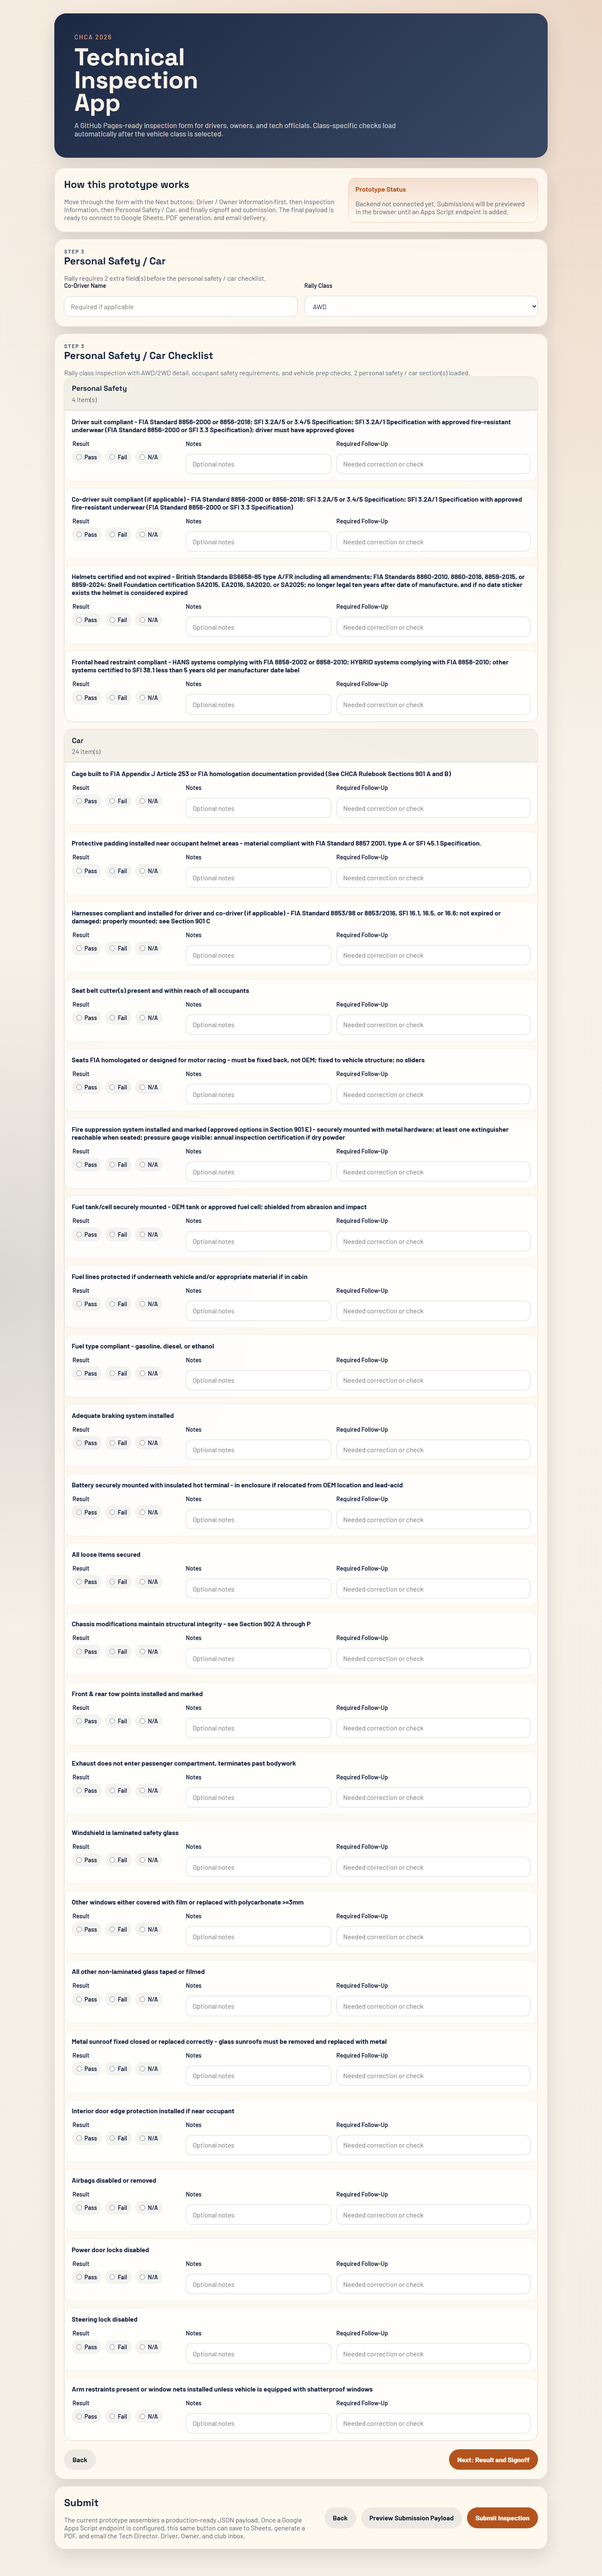
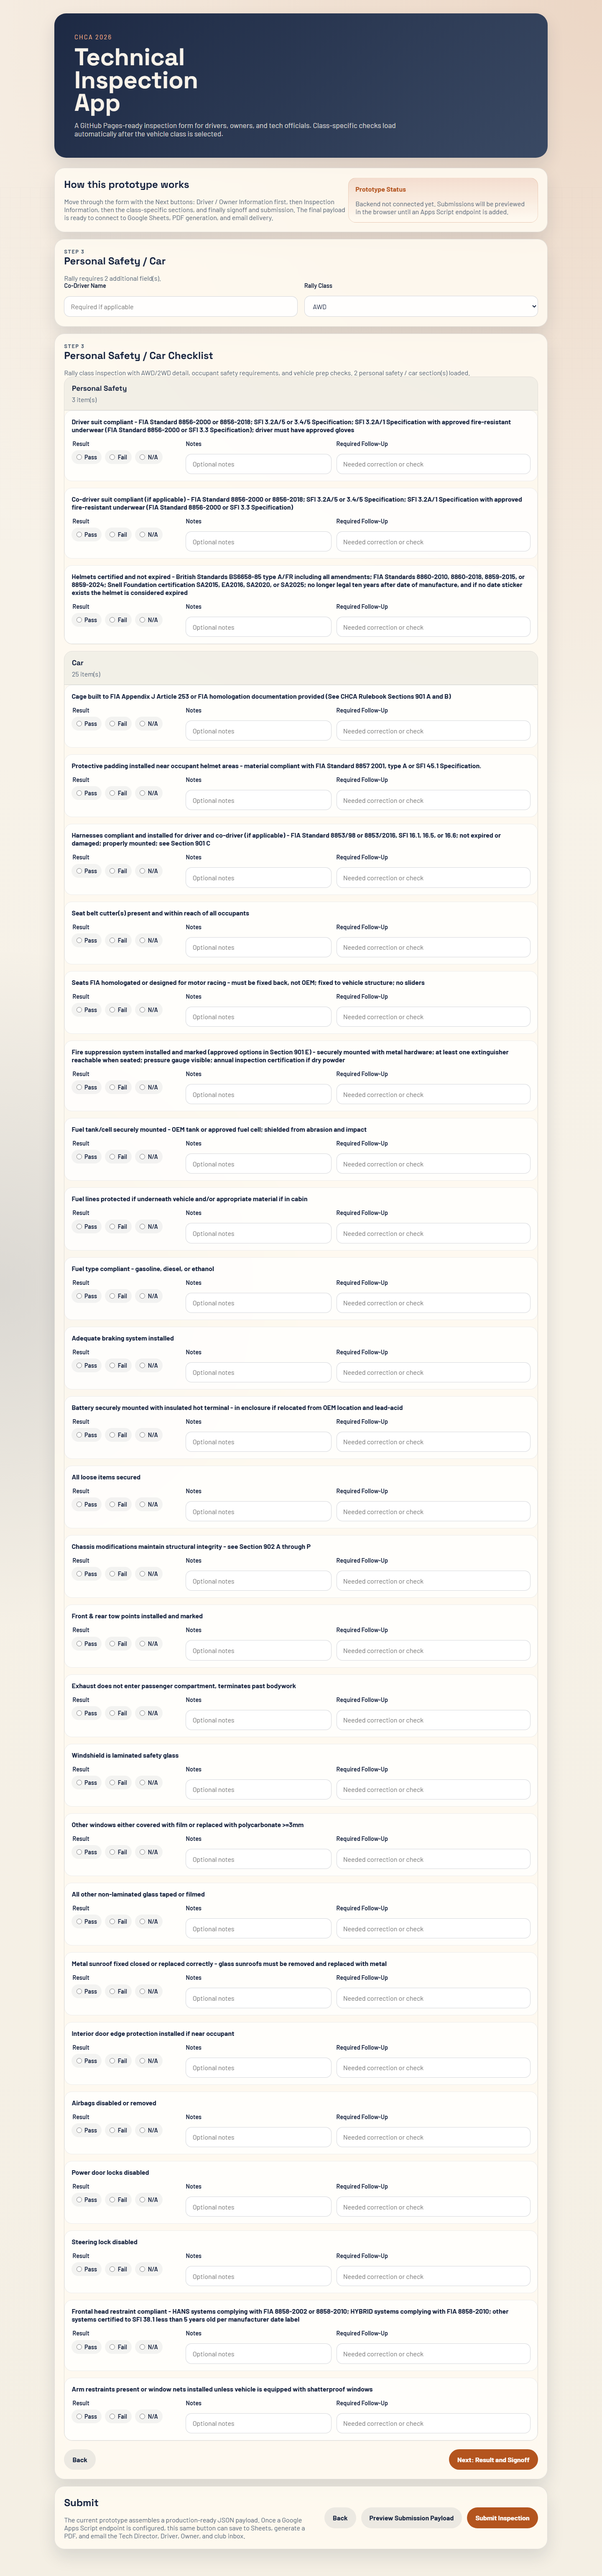
v5

diff --git a/app.js b/app.js
@@ -119,12 +119,13 @@ function renderChecklist(classId) {
     return;
   }
 
+  const checklistSections = getChecklistSections(selectedClass);
   renderClassSpecificFields(selectedClass);
   checklistContainer.className = "dynamic-checklist";
-  checklistHint.textContent = `${selectedClass.summary} ${selectedClass.sections.length} section(s) loaded.`;
+  checklistHint.textContent = `${selectedClass.summary} ${checklistSections.length} personal safety / car section(s) loaded.`;
   checklistContainer.innerHTML = "";
 
-  selectedClass.sections.forEach((section, sectionIndex) => {
+  checklistSections.forEach((section, sectionIndex) => {
     const sectionEl = document.createElement("section");
     sectionEl.className = "check-section";
     sectionEl.innerHTML = `
@@ -136,9 +137,13 @@ function renderChecklist(classId) {
     `;
 
     const itemsWrap = sectionEl.querySelector(".check-items");
-    section.items.forEach((itemLabel, itemIndex) => {
-      itemsWrap.appendChild(createChecklistItem(sectionIndex, itemIndex, itemLabel));
-    });
+    if (section.items.length === 0) {
+      itemsWrap.innerHTML = `<p class="empty-checklist">No ${section.title.toLowerCase()} items defined for ${selectedClass.label}.</p>`;
+    } else {
+      section.items.forEach((itemLabel, itemIndex) => {
+        itemsWrap.appendChild(createChecklistItem(sectionIndex, itemIndex, itemLabel));
+      });
+    }
 
     checklistContainer.appendChild(sectionEl);
   });
@@ -213,14 +218,105 @@ function createChecklistItem(sectionIndex, itemIndex, itemLabel) {
         <span class="mini-label">Notes</span>
         <input type="text" name="${key}__notes" placeholder="Optional notes" />
       </label>
-      <label>
-        <span class="mini-label">Required Follow-Up</span>
-        <input type="text" name="${key}__followUp" placeholder="Needed correction or check" />
-      </label>
     </div>
+    <label class="follow-up-toggle" hidden>
+      <input type="checkbox" name="${key}__requiredFollowUp" />
+      <span>Required Follow-Up</span>
+    </label>
   `;
 
+  const followUpToggle = itemCard.querySelector(".follow-up-toggle");
+  const followUpCheckbox = itemCard.querySelector(`input[name="${key}__requiredFollowUp"]`);
+  const statusInputs = itemCard.querySelectorAll(`input[name="${key}__status"]`);
+
+  statusInputs.forEach((input) => {
+    input.addEventListener("change", () => {
+      const showFollowUp = input.value === "Fail" && input.checked;
+      followUpToggle.hidden = !showFollowUp;
+
+      if (!showFollowUp) {
+        followUpCheckbox.checked = false;
+      }
+    });
+  });
+
   return itemCard;
+}
+
+function getChecklistSections(selectedClass) {
+  const personalSafetyItems = [];
+  const carItems = [];
+  if (!selectedClass) {
+    return [
+      { title: "Personal Safety", items: personalSafetyItems },
+      { title: "Car", items: carItems },
+    ];
+  }
+
+  selectedClass.sections.forEach((section) => {
+    section.items.forEach((itemLabel) => {
+      if (isPersonalSafetyItem(itemLabel)) {
+        personalSafetyItems.push(itemLabel);
+      } else {
+        carItems.push(itemLabel);
+      }
+    });
+  });
+
+  return [
+    { title: "Personal Safety", items: personalSafetyItems },
+    { title: "Car", items: carItems },
+  ];
+}
+
+function isPersonalSafetyItem(itemLabel) {
+  const normalizedLabel = itemLabel.toLowerCase();
+  const carSafetyKeywords = [
+    "window net",
+    "windows net",
+    "safety net",
+    "seat secure",
+    "seat and belt",
+    "seat installation",
+    "seat belt cutter",
+    "padded headrest",
+    "headrest support",
+    "padding installed",
+    "cage padding",
+    "helmet clearance",
+    "fire suppression",
+    "fire extinguisher",
+    "harnesses compliant",
+    "properly mounted",
+    "mounted per rule",
+    "installed and mounted",
+  ];
+
+  const personalSafetyKeywords = [
+    "helmet",
+    "full-face helmet",
+    "head and neck restraint",
+    "harness",
+    "suit",
+    "gloves",
+    "shoes",
+    "boots",
+    "fire-resistant underwear",
+    "protective gear",
+    "protective apparel",
+    "rider gear",
+    "leathers",
+    "eye / face protection",
+    "neck protection",
+    "chest protector",
+    "arm restraint",
+  ];
+
+  if (carSafetyKeywords.some((keyword) => normalizedLabel.includes(keyword))) {
+    return false;
+  }
+
+  return personalSafetyKeywords.some((keyword) => normalizedLabel.includes(keyword));
 }
 
 function hasClassSpecificFields() {
@@ -337,7 +433,7 @@ function buildPayload() {
       classLabel: selectedClass?.label || "",
       classTitle: selectedClass?.title || "",
       checklist: selectedClass
-        ? selectedClass.sections.map((section, sectionIndex) => ({
+        ? getChecklistSections(selectedClass).map((section, sectionIndex) => ({
             sectionTitle: section.title,
             items: section.items.map((itemLabel, itemIndex) => {
               const prefix = `s${sectionIndex}i${itemIndex}`;
@@ -345,7 +441,7 @@ function buildPayload() {
                 label: itemLabel,
                 status: form.elements[`${prefix}__status`]?.value || "",
                 notes: form.elements[`${prefix}__notes`]?.value || "",
-                followUp: form.elements[`${prefix}__followUp`]?.value || "",
+                requiredFollowUp: form.elements[`${prefix}__requiredFollowUp`]?.checked || false,
               };
             }),
           }))

diff --git a/index.html b/index.html
@@ -111,7 +111,6 @@
                 <select name="inspectionType" required>
                   <option value="">Select one</option>
                   <option>Annual</option>
-                  <option>Event</option>
                   <option>Re-Tech</option>
                 </select>
               </label>
@@ -146,15 +145,15 @@
 
             <div class="step-actions">
               <button type="button" class="secondary-button" data-step-back="2">Back</button>
-              <button type="button" class="primary-button" data-step-next="2">Next: Class Sections</button>
+              <button type="button" class="primary-button" data-step-next="2">Next: Personal Safety / Car</button>
             </div>
           </section>
 
           <section class="panel" id="classDetailsPanel" data-step="3" hidden>
             <div class="section-heading">
               <p class="step-label">Step 3</p>
-              <h2>Class-Specific Details</h2>
-              <p id="classDetailsHint">Additional fields will appear here for the selected class.</p>
+              <h2>Personal Safety / Car</h2>
+              <p id="classDetailsHint">Any class-specific fields will appear here before the safety and car checklist.</p>
             </div>
 
             <div id="classSpecificFields" class="grid two-up"></div>
@@ -162,8 +161,9 @@
 
           <section class="panel" id="checklistPanel" data-step="3" hidden>
             <div class="section-heading">
-              <h2>Checklist</h2>
-              <p id="checklistHint">Choose a class above to load the required inspection items.</p>
+              <p class="step-label">Step 3</p>
+              <h2>Personal Safety / Car Checklist</h2>
+              <p id="checklistHint">Choose a class above to load the required safety and car inspection items.</p>
             </div>
 
             <div id="dynamicChecklist" class="dynamic-checklist empty-state">

diff --git a/google-apps-script/inspection-pdf-template.html b/google-apps-script/inspection-pdf-template.html
@@ -62,10 +62,9 @@
           <thead>
             <tr>
               <th>Inspection Item</th>
-              <th>Measured / Verified</th>
               <th>Result</th>
               <th>Notes</th>
-              <th>Follow-Up</th>
+              <th>Required Follow-Up</th>
             </tr>
           </thead>
           <tbody>
@@ -73,10 +72,9 @@
               <? var item = inspection.checklist[i].items[j]; ?>
               <tr>
                 <td><?= item.label ?></td>
-                <td><?= item.measuredOrVerified || "" ?></td>
                 <td><?= item.status || "" ?></td>
                 <td><?= item.notes || "" ?></td>
-                <td><?= item.followUp || "" ?></td>
+                <td><?= item.requiredFollowUp ? "Yes" : "" ?></td>
               </tr>
             <? } ?>
           </tbody>
@@ -96,3 +94,6 @@
     </div>
   </body>
 </html>
+
+
+

diff --git a/styles.css b/styles.css
@@ -237,8 +237,30 @@ input[readonly] {
 .item-grid {
   display: grid;
   gap: 0.75rem;
-  grid-template-columns: 0.9fr 1.2fr 1.6fr;
+  grid-template-columns: 0.9fr 1.2fr;
   align-items: start;
+}
+
+.empty-checklist {
+  margin: 0;
+  color: var(--muted);
+  font-size: 0.95rem;
+}
+
+.follow-up-toggle {
+  display: inline-flex;
+  align-items: center;
+  gap: 0.6rem;
+  margin-top: 0.85rem;
+}
+
+.follow-up-toggle[hidden] {
+  display: none;
+}
+
+.follow-up-toggle input {
+  width: auto;
+  margin: 0;
 }
 
 fieldset {

diff --git a/tech-data.js b/tech-data.js
@@ -1,7 +1,7 @@
 window.CHCATECH = {
   config: {
-    clubEmail: "club@example.org",
-    appsScriptUrl: "",
+    clubEmail: "chcaracingbaord@gmail.com",
+    appsScriptUrl: "https://script.google.com/macros/s/AKfycbwZ4fwBSRaWP9qZTAq81CB4QU1sVPvDrInvrFtpTCH-6NO95XvLIbDFLoM5kin0GBiKQw/exec",
   },
   classes: [
     {
@@ -854,3 +854,4 @@ window.CHCATECH = {
     },
   ],
 };
+
